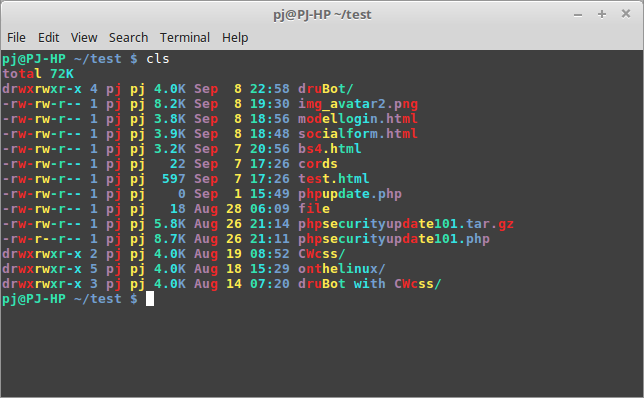
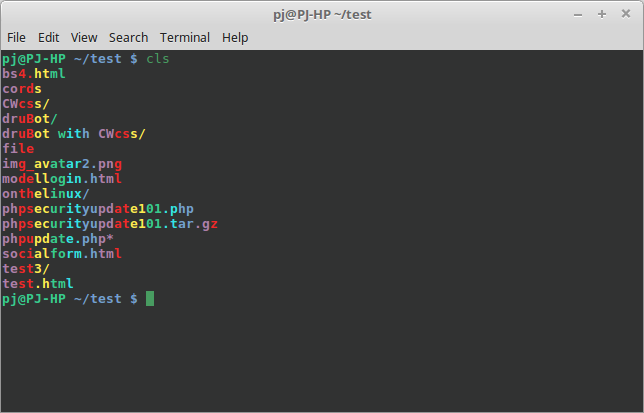
Signed-off-by: dru18 <dru41821@gmail.com>
modified:   README.md
	modified:   screenshots/cls.png
	new file:   screenshots/clsld.png

Changed region(s): [[0.0, 0.0603, 1.0, 0.7839], [0.4348, 0.0, 0.5901, 0.0603], [0.9938, 0.0, 1.0, 0.0302]]

diff --git a/README.md b/README.md
@@ -32,6 +32,8 @@ This script needs to have some additional packages to be installed on your syste
   
   `cls -l`
 
+  ![clsl](https://github.com/dru18/cls/blob/master/screenshots/clsl.png)
+
   `cls test/`
  
   `cls -alh test/`
